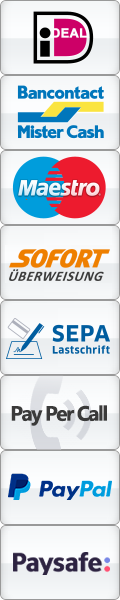
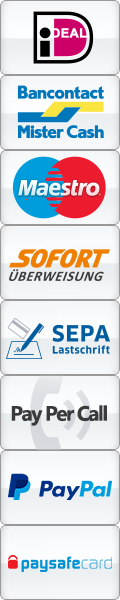
Added changes for paysafecard

Changed region(s): [[0.05, 0.9, 0.95, 0.96]]

diff --git a/src/components/pages/payment/payment.ts b/src/components/pages/payment/payment.ts
@@ -238,6 +238,11 @@ export default class Payment extends Vue {
 
         const { result, error } = await submitPayment(this.selectedPayment, this.credits, this.promoCode);
 
+        if(error){
+            this.$store.dispatch('errorMessage', 'payment.alerts.errorNoConnection');
+            return;
+        }
+
         if(result.free !== undefined){
             this.$store.dispatch('openMessage', {
                 content: result.free ? 'payment.alerts.successFreePromo' : 'payment.alerts.errorFreePromo',
